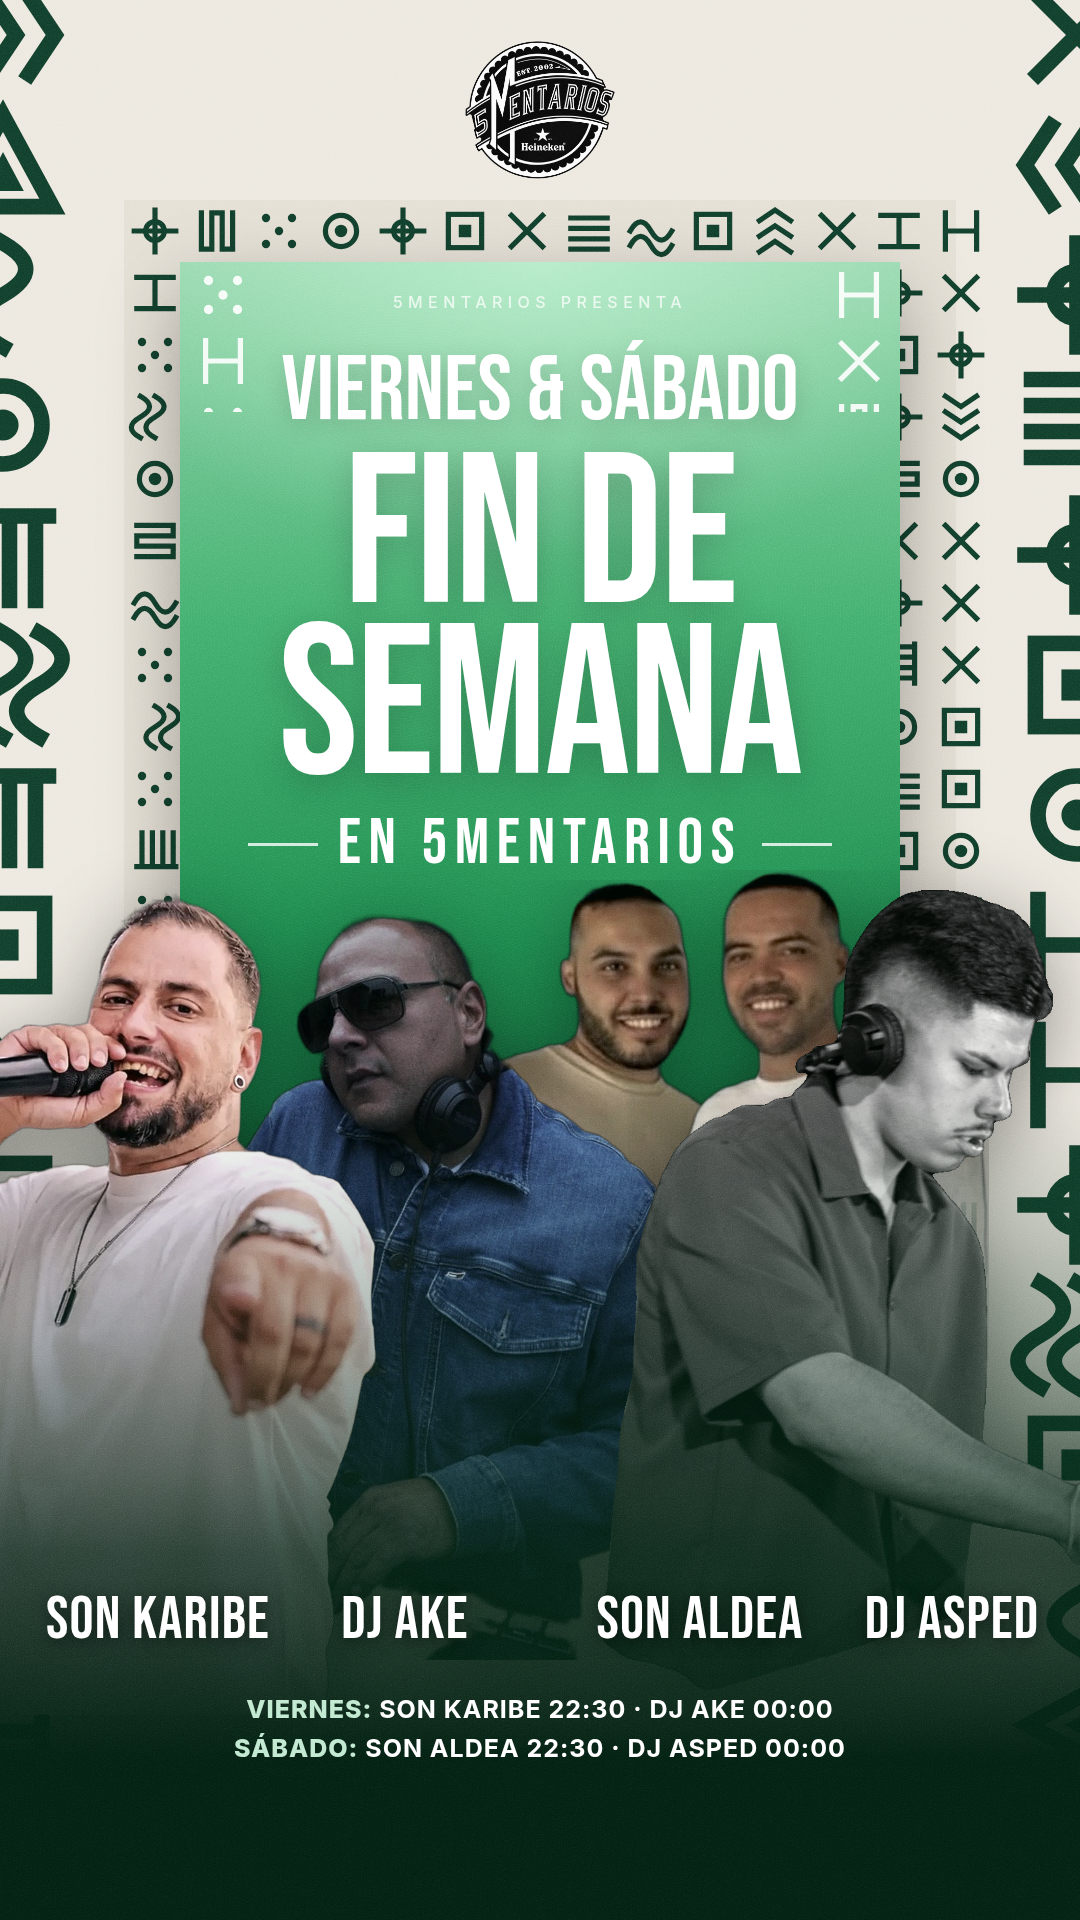
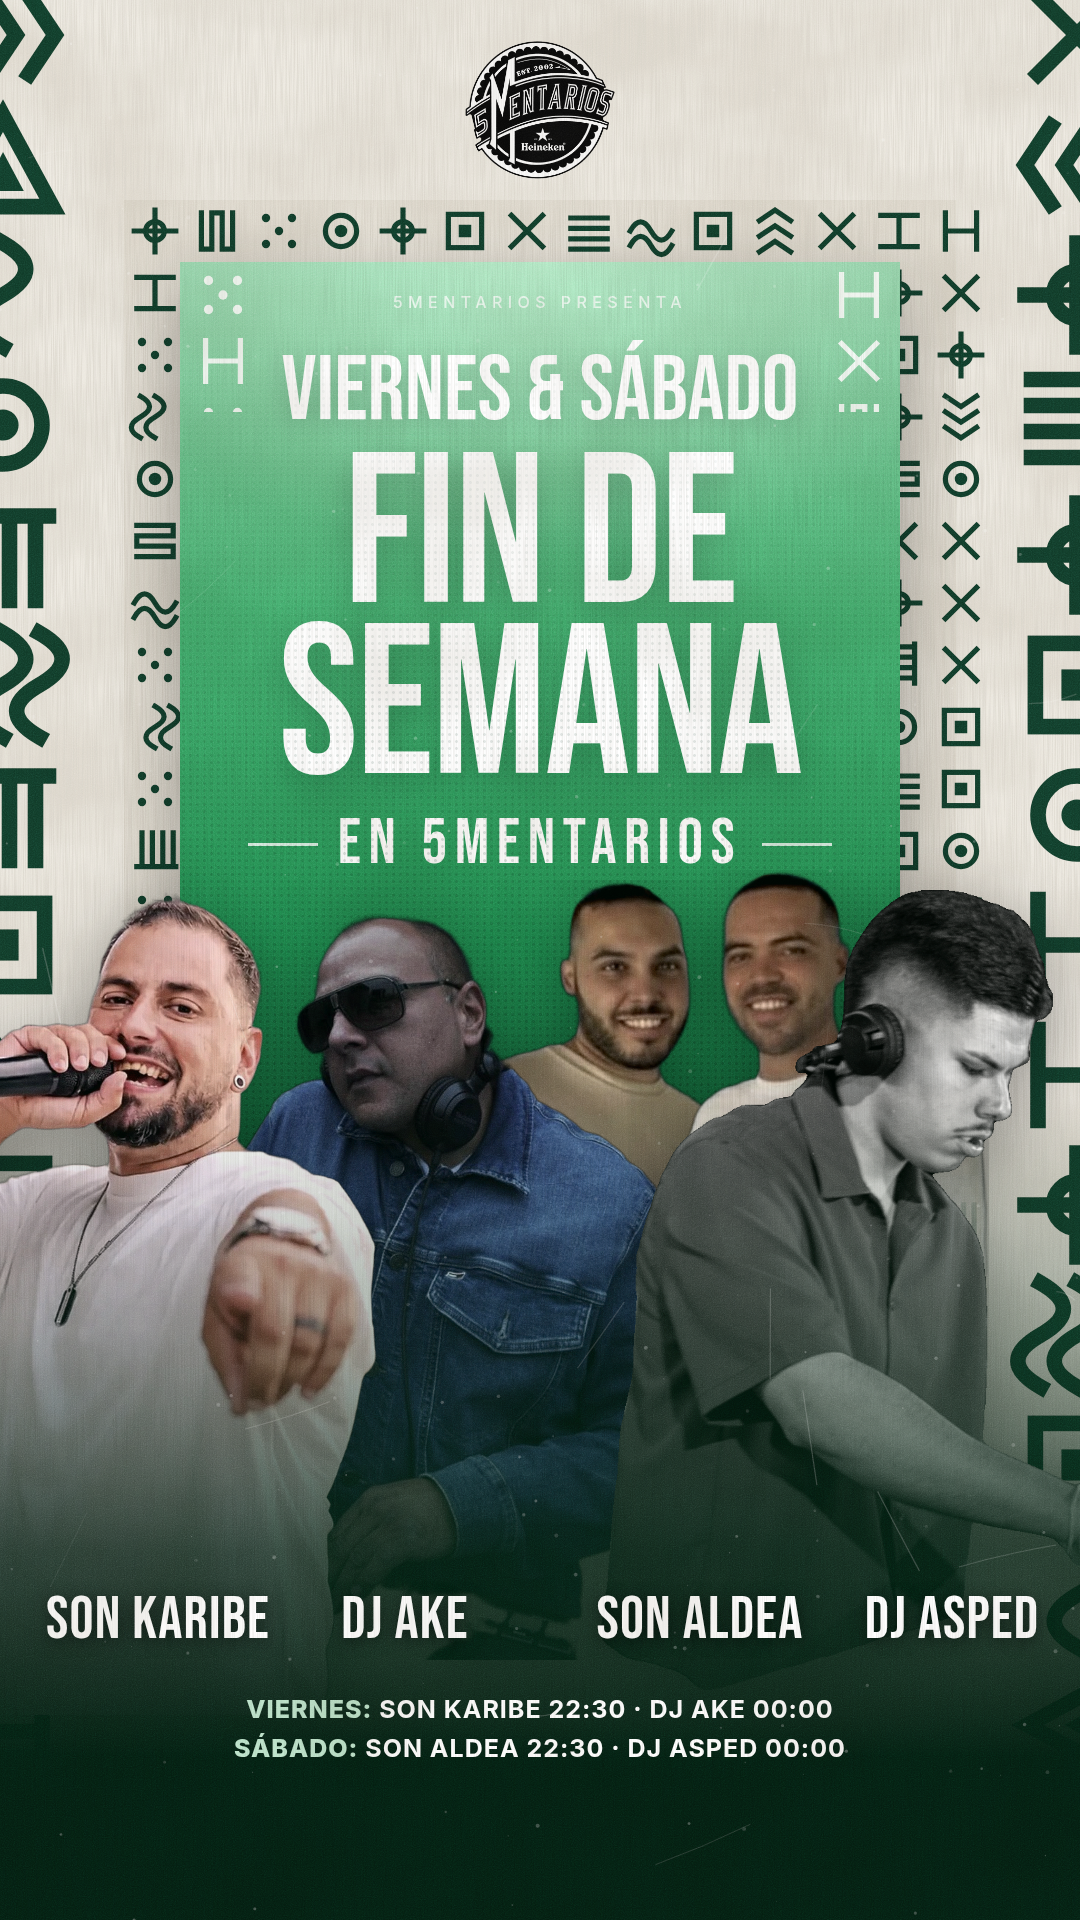
Add printed-paper texture, dust and halftone to green lineup poster
Claude-Session: https://claude.ai/code/session_01RJzBzF85Mf8EXnmYDeiEGb

diff --git a/posts/2026-09-25-musica-en-directo/5mentarios-vibe.html b/posts/2026-09-25-musica-en-directo/5mentarios-vibe.html
@@ -16,6 +16,12 @@
   html, body { background: #000; }
   .canvas { width: 1080px; height: 1920px; position: relative; overflow: hidden; background: var(--paper); font-family: "Inter", sans-serif; }
   svg.layer { position: absolute; inset: 0; width: 100%; height: 100%; }
+  .tex { position: absolute; inset: 0; width: 100%; height: 100%; pointer-events: none; }
+  .tex.paper { z-index: 45; mix-blend-mode: multiply; opacity: .28; }
+  .tex.dust  { z-index: 46; mix-blend-mode: screen; opacity: .35; }
+  .panel .halftone { position: absolute; inset: 0; z-index: 0; mix-blend-mode: multiply; opacity: .35;
+    background: radial-gradient(rgba(0,40,20,.55) 1.1px, transparent 1.7px) 0 0 / 7px 7px;
+    -webkit-mask-image: linear-gradient(180deg, transparent 0%, #000 70%); mask-image: linear-gradient(180deg, transparent 0%, #000 70%); }
   svg.grain { position: absolute; inset: 0; width: 100%; height: 100%; z-index: 50; pointer-events: none; mix-blend-mode: soft-light; opacity: .6; }
 
   .logo { position: absolute; top: 34px; left: 50%; width: 150px; transform: translateX(-50%); z-index: 6; }
@@ -72,6 +78,7 @@
   <img class="logo" src="logo/5mentarios-original.png" alt="5mentarios · Heineken">
 
   <div class="panel">
+    <div class="halftone"></div>
     <svg class="strip l" id="stripL"></svg>
     <svg class="strip r" id="stripR"></svg>
     <div class="presents">5MENTARIOS PRESENTA</div>
@@ -101,6 +108,19 @@
     <p><b>SÁBADO:</b> SON ALDEA 22:30 · DJ ASPED 00:00</p>
   </div>
 
+  <svg class="tex paper" xmlns="http://www.w3.org/2000/svg">
+    <filter id="mottle" x="0" y="0" width="100%" height="100%">
+      <feTurbulence type="fractalNoise" baseFrequency=".006 .009" numOctaves="4" seed="7"/>
+      <feColorMatrix values="0 0 0 0 .55  0 0 0 0 .5  0 0 0 0 .42  0 0 0 -2.2 1.5"/>
+    </filter>
+    <filter id="fibers" x="0" y="0" width="100%" height="100%">
+      <feTurbulence type="fractalNoise" baseFrequency=".9 .015" numOctaves="2" seed="3"/>
+      <feColorMatrix values="0 0 0 0 .4  0 0 0 0 .38  0 0 0 0 .33  0 0 0 -3 1.9"/>
+    </filter>
+    <rect width="100%" height="100%" filter="url(#mottle)"/>
+    <rect width="100%" height="100%" filter="url(#fibers)" opacity=".6"/>
+  </svg>
+  <svg class="tex dust" id="dust" xmlns="http://www.w3.org/2000/svg"></svg>
   <svg class="grain" xmlns="http://www.w3.org/2000/svg">
     <filter id="g"><feTurbulence type="fractalNoise" baseFrequency=".9" numOctaves="3" stitchTiles="stitch"/><feColorMatrix type="saturate" values="0"/></filter>
     <rect width="100%" height="100%" filter="url(#g)"/>
@@ -151,6 +171,12 @@
     };
     img.complete ? go() : img.addEventListener("load", go);
   });
+  // polvo y arañazos
+  { let d = "";
+    for (let i = 0; i < 260; i++) { const r = rnd() * 1.6 + .4; d += `<circle cx="${rnd()*1080}" cy="${rnd()*1920}" r="${r}" fill="#fff" opacity="${.25 + rnd()*.5}"/>`; }
+    for (let i = 0; i < 22; i++) { const x = rnd()*1080, y = rnd()*1920, l = 20 + rnd()*90, a = rnd()*Math.PI;
+      d += `<path d="M${x} ${y} q ${Math.cos(a)*l/2} ${Math.sin(a)*l/2 + (rnd()*10-5)} ${Math.cos(a)*l} ${Math.sin(a)*l}" stroke="#fff" stroke-width="${.6 + rnd()*.8}" fill="none" opacity="${.2 + rnd()*.35}"/>`; }
+    document.getElementById("dust").innerHTML = d; }
 </script>
 </body>
 </html>
